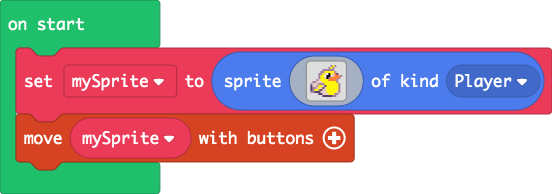
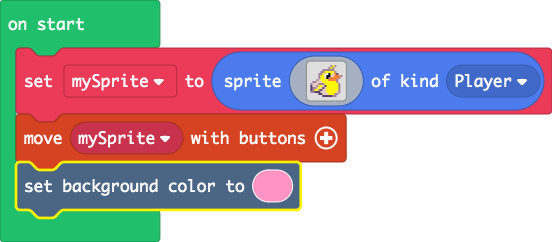
Update pxt.json, main.blocks, main.ts

diff --git a/main.ts b/main.ts
@@ -1,40 +1,42 @@
 namespace myTiles {
     //% blockIdentity=images._tile
     export const tile0 = img`
-. . . . . . . . . . . . . . . . 
-. . . . . . . . . . . . . . . . 
-. . . . . . . . . . . . . . . . 
-. . . . . . . . . . . . . . . . 
-. . . . . . . . . . . . . . . . 
-. . . . . . . . . . . . . . . . 
-. . . . . . . . . . . . . . . . 
-. . . . . . . . . . . . . . . . 
-. . . . . . . . . . . . . . . . 
-. . . . . . . . . . . . . . . . 
-. . . . . . . . . . . . . . . . 
-. . . . . . . . . . . . . . . . 
-. . . . . . . . . . . . . . . . 
-. . . . . . . . . . . . . . . . 
-. . . . . . . . . . . . . . . . 
-. . . . . . . . . . . . . . . . 
-`
+        . . . . . . . . . . . . . . . .
+        . . . . . . . . . . . . . . . .
+        . . . . . . . . . . . . . . . .
+        . . . . . . . . . . . . . . . .
+        . . . . . . . . . . . . . . . .
+        . . . . . . . . . . . . . . . .
+        . . . . . . . . . . . . . . . .
+        . . . . . . . . . . . . . . . .
+        . . . . . . . . . . . . . . . .
+        . . . . . . . . . . . . . . . .
+        . . . . . . . . . . . . . . . .
+        . . . . . . . . . . . . . . . .
+        . . . . . . . . . . . . . . . .
+        . . . . . . . . . . . . . . . .
+        . . . . . . . . . . . . . . . .
+        . . . . . . . . . . . . . . . .
+    `
 }
 let mySprite = sprites.create(img`
-. . . . . . . . . . b 5 b . . . 
-. . . . . . . . . b 5 b . . . . 
-. . . . . . b b b b b b . . . . 
-. . . . . b b 5 5 5 5 5 b . . . 
-. . . . b b 5 d 1 f 5 d 4 c . . 
-. . . . b 5 5 1 f f d d 4 4 4 b 
-. . . . b 5 5 d f b 4 4 4 4 b . 
-. . . b d 5 5 5 5 4 4 4 4 b . . 
-. b b d d d 5 5 5 5 5 5 5 b . . 
-b d d d b b b 5 5 5 5 5 5 5 b . 
-c d d b 5 5 d c 5 5 5 5 5 5 b . 
-c b b d 5 d c d 5 5 5 5 5 5 b . 
-c b 5 5 b c d d 5 5 5 5 5 5 b . 
-b b c c c d d d 5 5 5 5 5 d b . 
-. . . . c c d d d 5 5 5 b b . . 
-. . . . . . c c c c c b b . . . 
+    . . . . . . . . . . b 5 b . . .
+    . . . . . . . . . b 5 b . . . .
+    . . . . . . b b b b b b . . . .
+    . . . . . b b 5 5 5 5 5 b . . .
+    . . . . b b 5 d 1 f 5 d 4 c . .
+    . . . . b 5 5 1 f f d d 4 4 4 b
+    . . . . b 5 5 d f b 4 4 4 4 b .
+    . . . b d 5 5 5 5 4 4 4 4 b . .
+    . b b d d d 5 5 5 5 5 5 5 b . .
+    b d d d b b b 5 5 5 5 5 5 5 b .
+    c d d b 5 5 d c 5 5 5 5 5 5 b .
+    c b b d 5 d c d 5 5 5 5 5 5 b .
+    c b 5 5 b c d d 5 5 5 5 5 5 b .
+    b b c c c d d d 5 5 5 5 5 d b .
+    . . . . c c d d d 5 5 5 b b . .
+    . . . . . . c c c c c b b . . .
 `, SpriteKind.Player)
 controller.moveSprite(mySprite)
+scene.setBackgroundColor(4)
+game.splash("welcome to duck")
